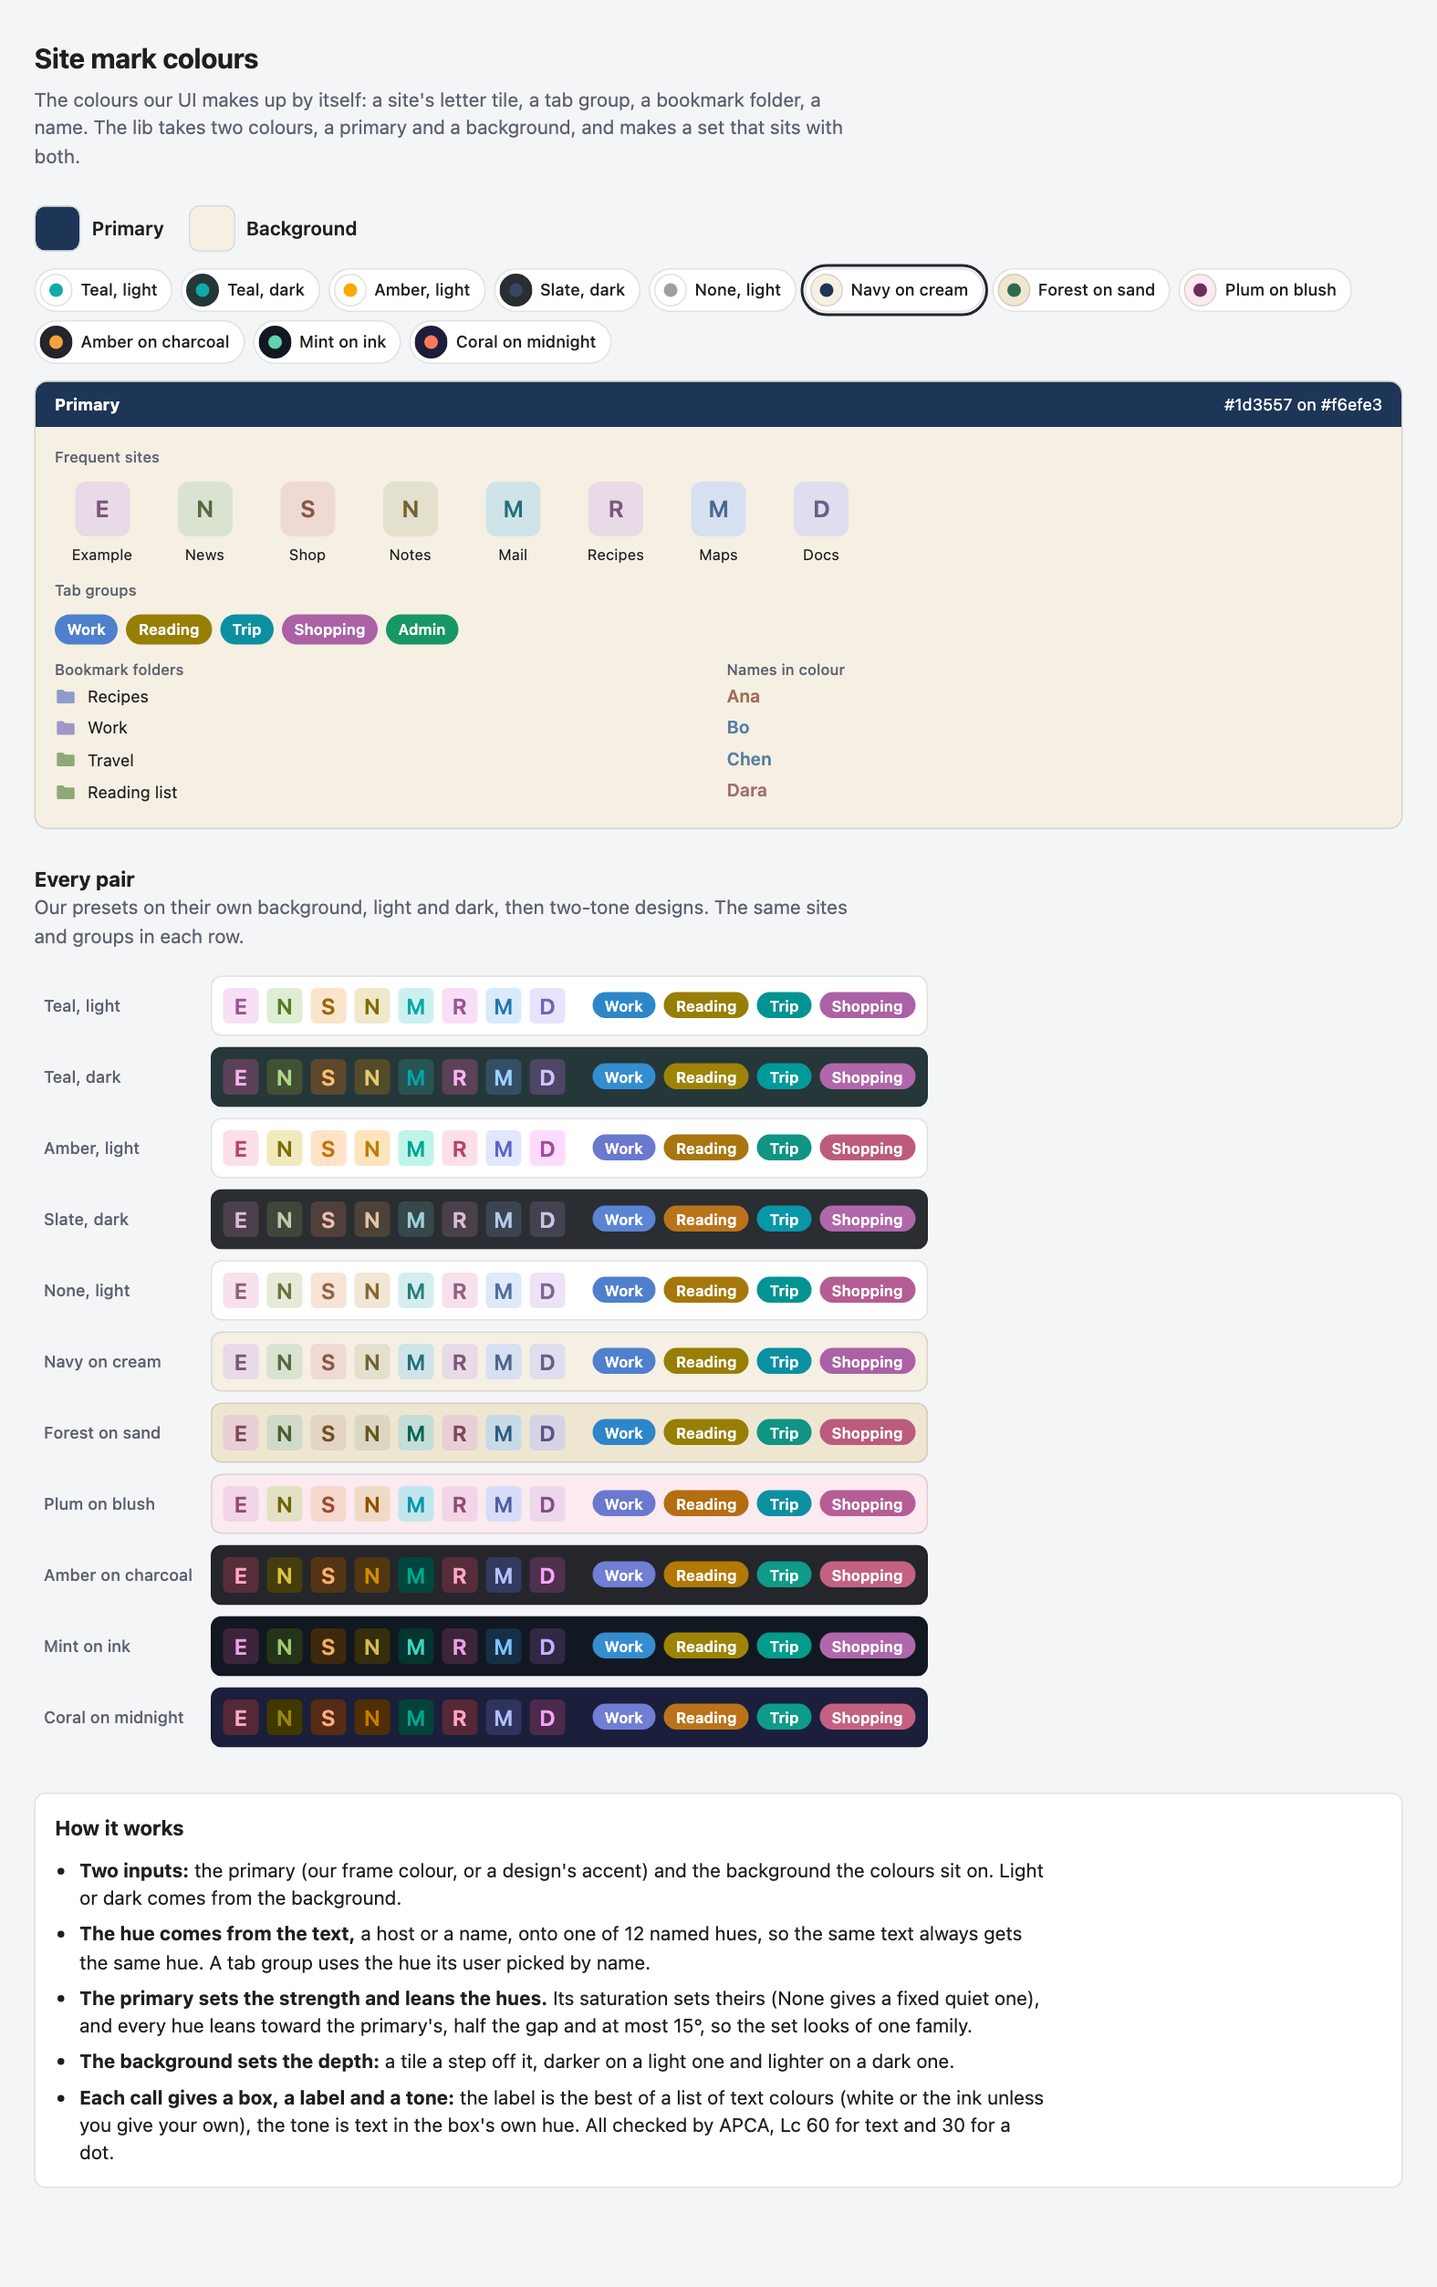
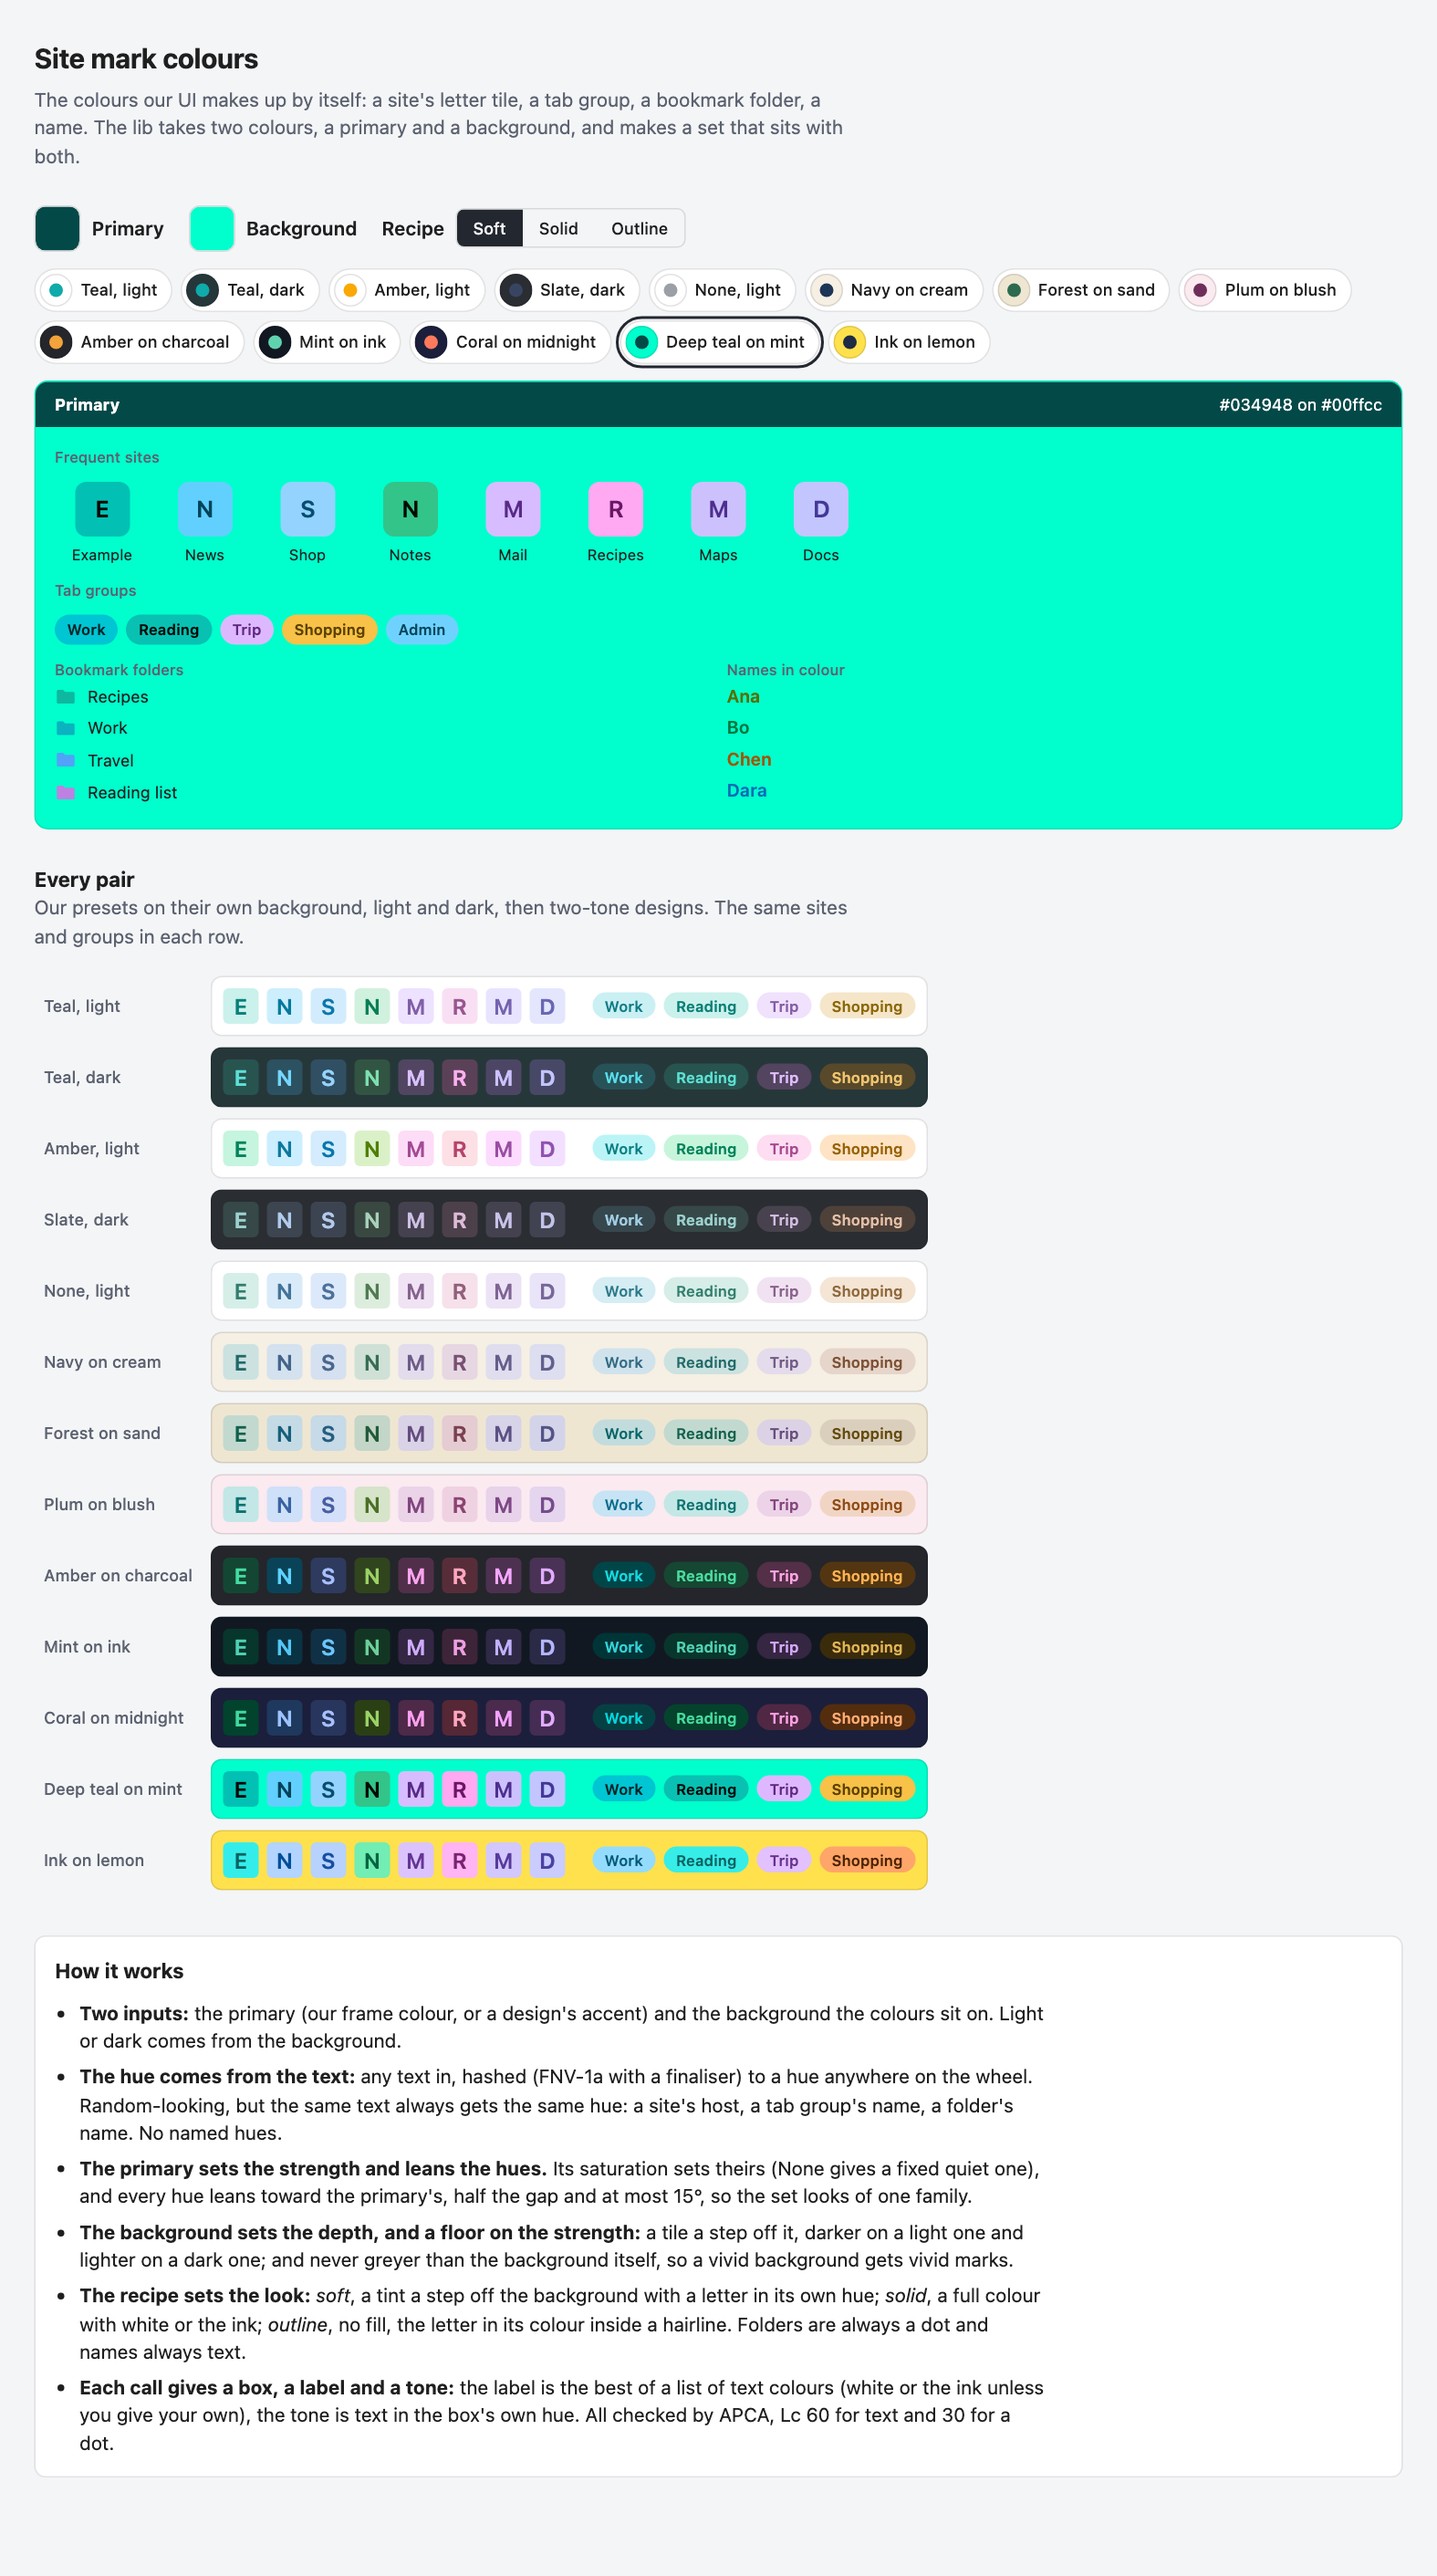
Colour util: hash any text to any hue, no named hues; the background's saturation sets a floor on the strength, and a soft tile stands off a vivid background

diff --git a/docs/colour-util.md b/docs/colour-util.md
@@ -20,19 +20,19 @@ time.
 
 Three layers, each doing one thing.
 
-1. **The hue.** A number on the wheel, from:
-   - **text**, such as a host (lower case, without `www.`) or a folder's name: FNV-1a, then
-     murmur3's finaliser so that hosts of one domain still spread, onto one of **12 named
-     hues** spaced evenly by eye in OKLCH (red, orange, amber, lime, green, mint, teal, sky,
-     blue, indigo, purple, pink). The same text gets the same hue in every shell;
-   - **a slot** the user picked by name, such as a tab group's "teal", which is then the
-     same teal a site hashed to teal gets;
-   - **near the frame**: within 40° of the frame's hue;
-   - **random**, for what needs no memory.
+1. **The hue.** Any text in, hashed to a hue anywhere on the wheel: FNV-1a, then murmur3's
+   finaliser so that similar texts (hosts of one domain) still spread. Random-looking, and
+   deterministic: the same text gets the same hue in every shell, light or dark. A site's
+   host (lower case, without `www.`), a tab group's or a folder's name. No named hues. With
+   no text, a random hue, for what needs no memory.
 2. **The colour.** `colour({ hue, primary, background, strength, recipe, labels })`. Two
    colours go in, so a two-tone design gets a set that sits with both: the **primary** (our
    frame colour, or a design's accent) and the **background** the colours sit on. Light or
    dark comes from the background.
+   - **background floor:** the strength is never weaker than the background's own chroma,
+     so a vivid background gets vivid marks rather than greyish ones; and a soft tile stands
+     off the background by an OKLab distance of 0.05, more on a vivid one, even when its hue
+     is the background's own.
    - **harmony:** every hue leans toward the primary's, half the gap and at most 15°, as
      Material's harmonize does, so the set looks of one family. A primary with no colour of
      its own (None) leans nothing.
@@ -51,7 +51,7 @@ Three layers, each doing one thing.
      pass, so it keeps as much of its colour as it can.
 3. **Configs**: each place that colours something says how, once, and never writes a colour:
    - site marks: hue from the host, strength from the frame, soft, the tone for the letter;
-   - tab groups: the slot the user picked, full strength, solid, the label for the name;
+   - tab groups: hue from the group's name, solid, the label for the name;
    - bookmark folders: hue from the folder's name, strength from the frame, a dot.
 
 The theme never changes a hue: light, dark, the frame and the background change only how
@@ -98,18 +98,21 @@ The owner, 2026-11-18:
 - **None** takes a fixed quiet strength rather than grey: same answer.
 - **Two inputs, a primary and a background**, "since there might be a two tone design where
   this lib should be able to generate good sets of colors".
+- **No named hues; the hue is hashed from text:** "the hues should not be names because we
+  need to have a feaure with takes a text inout and hases it and that is used to generate
+  the colors... since we need an deteminitic option to generate random colors".
+- **The background's saturation counts too**, after a deep teal on bright mint looked off
+  with greyish marks: "may be becuase we match the intensity of only the primary color".
 - **The recipe is an input too:** "add the recipies as another input option".
 
 ## Open
 
 - Recipe for site marks: soft is the UX session's pick and ours.
-- 12 named slots, or any hue: slots tie marks to tab groups and keep out muddy in-between
-  hues; any hue shares less.
 - Where it lives: one JS module, `shell/src/ui/tint.js`, its constants in it, reading the
   frame, light or dark and the background from the tones Go sends. A native shell that ever
   needs marks ports it and checks a shared file of test vectors (the UX session's view, and
   ours).
 - The design-system rule: "A colour made up for an item comes from tint(), never a literal",
   with what seeds it.
-- Tab groups and workspaces store a colour code today; moving them to a slot name is its own
-  change, after site marks.
+- Tab groups and workspaces store a colour code today; moving them to a colour from their
+  name is its own change, after site marks.
